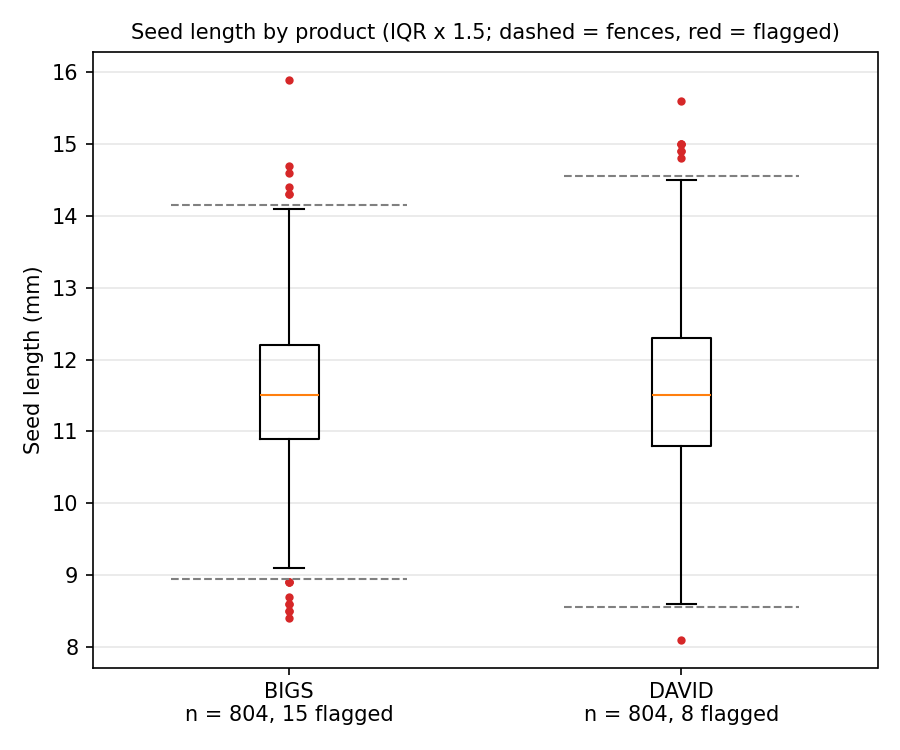
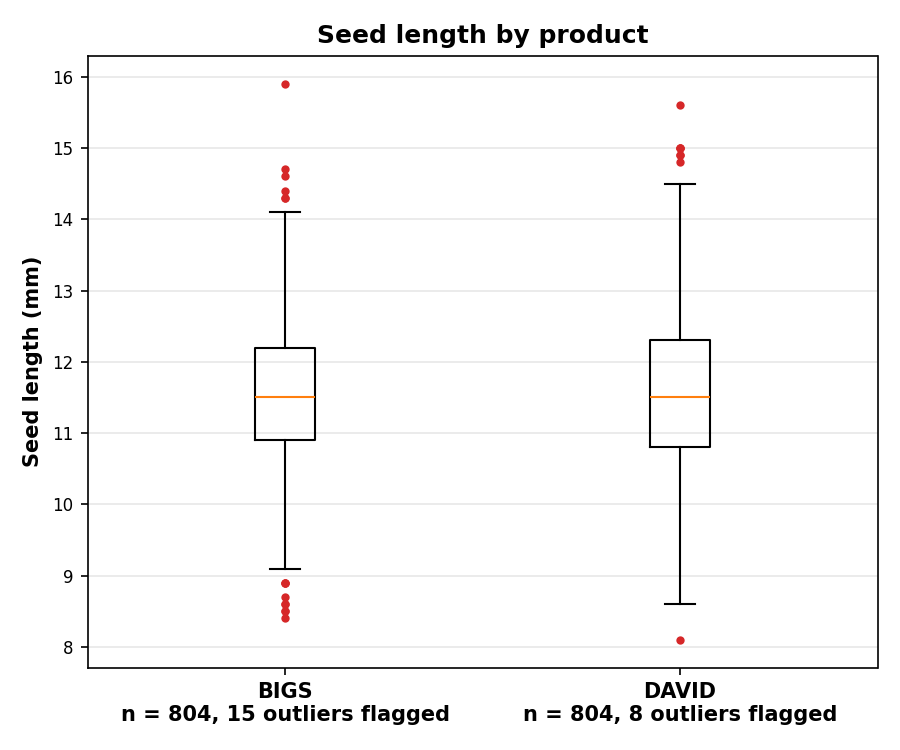
improve outlier plot formatting

diff --git a/src/clean.py b/src/clean.py
@@ -130,24 +130,21 @@ def plot_outliers_boxplot(df: pd.DataFrame, path=FIG_DIR / "outliers_boxplot.png
     """Save a box-and-whisker plot of seed length per product, matching the IQR outlier rule.
 
     Whiskers use the same multiplier as `flag_outliers_iqr`, so the points beyond them are exactly the rows flagged
-    in `outlier_iqr`. Whiskers stop at the most extreme value inside the fences; the dashed lines mark the fences.
+    in `outlier_iqr`. Whiskers stop at the most extreme value inside the fences.
     """
     products = sorted(df["product"].unique())
     data = [df.loc[df["product"] == p, "seed_length"] for p in products]
 
-    labels = [f"{p}\nn = {len(x)}, {df.loc[df['product'] == p, 'outlier_iqr'].sum()} flagged"
+    labels = [f"{p}\nn = {len(x)}, {df.loc[df['product'] == p, 'outlier_iqr'].sum()} outliers flagged"
               for p, x in zip(products, data)]
 
     fig, ax = plt.subplots(figsize=(6, 5))
     ax.boxplot(data, tick_labels=labels, whis=IQR_MULTIPLIER,
                flierprops={"marker": "o", "markersize": 4, "markerfacecolor": "tab:red", "markeredgecolor": "none"})
-    for i, x in enumerate(data, start=1):
-        q1, q3 = x.quantile([0.25, 0.75])
-        iqr = q3 - q1
-        for fence in (q1 - IQR_MULTIPLIER * iqr, q3 + IQR_MULTIPLIER * iqr):
-            ax.hlines(fence, i - 0.3, i + 0.3, colors="gray", linestyles="--", linewidth=1)
-    ax.set_ylabel("Seed length (mm)")
-    ax.set_title(f"Seed length by product (IQR x {IQR_MULTIPLIER}; dashed = fences, red = flagged)", fontsize=10)
+    ax.set_xticklabels(labels=labels, fontsize=10, fontweight='bold')
+    ax.tick_params(axis='y', labelsize=8)
+    ax.set_ylabel("Seed length (mm)", fontsize=10, fontweight="bold")
+    ax.set_title(f"Seed length by product", fontsize=12, fontweight='bold')
     ax.grid(axis="y", alpha=0.3)
 
     path.parent.mkdir(parents=True, exist_ok=True)
